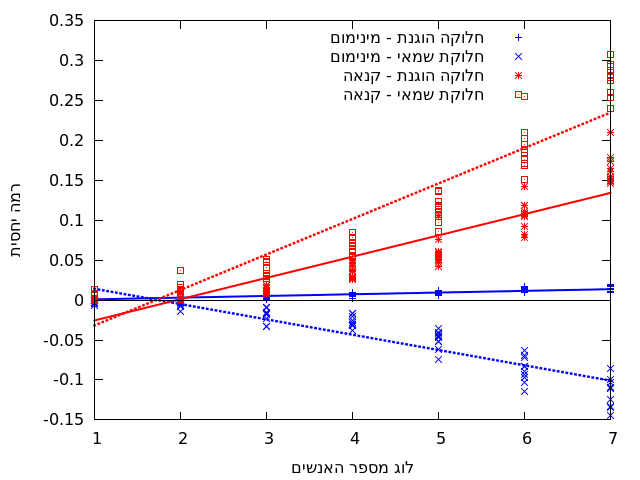
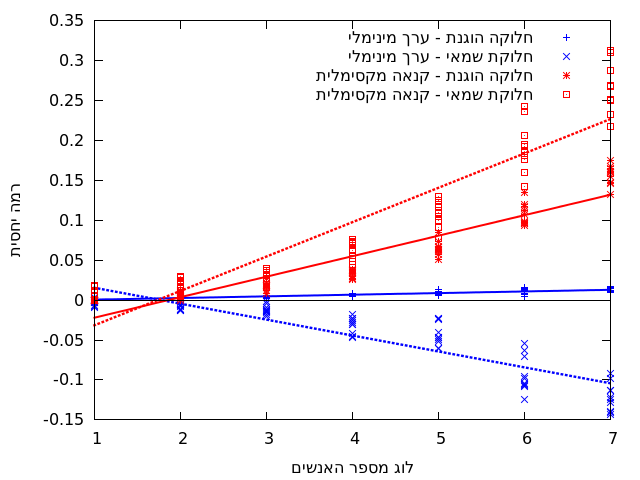
hebrew plots

diff --git a/main.js b/main.js
@@ -18,7 +18,7 @@ var _ = require("underscore")
 
 //var NOISE_PROPORTIONS = [0,0.25,0.5,1];
 //var NOISE_PROPORTIONS = _.range(0.05, 1, 0.05);
-var NOISE_PROPORTIONS = [0.2,0.5,1];
+var NOISE_PROPORTIONS = [0.2];
 
 var AGENT_NUMS = [2,4,8,16,32,64,128];
 //var AGENT_NUMS = [2,4,16,256,1024];
@@ -89,7 +89,7 @@ function calculateSingleDatapoint(numOfAgents,noiseProportion,resultsFile) {
 		if (egalitarianGain<-0.001) throw new Error("In proportional division, normalized egalitarian gain must be at least 0; got "+egalitarianGain);
 		var utilitarianGain = cakepartitions.utilitarianValue(partition)-1;
 		if (utilitarianGain<-0.001) throw new Error("In proportional division, utilitarian gain must be at least 0; got "+utilitarianGain);
-		var largestEnvy = cakepartitions.largestEnvy(partition);
+		var envy = cakepartitions.largestEnvy(partition);
 
 		
 		var identicalPartitionWithDifferentAgents = _.zip(valueFunctions,identicalPartition).map(function(pair) {
@@ -97,11 +97,11 @@ function calculateSingleDatapoint(numOfAgents,noiseProportion,resultsFile) {
 		});
 		var egalitarianGainIPWDA = cakepartitions.normalizedEgalitarianValue(identicalPartitionWithDifferentAgents)-1;
 		var utilitarianGainIPWDA = cakepartitions.utilitarianValue(identicalPartitionWithDifferentAgents)-1;
-		var largestEnvyIPWDA = cakepartitions.largestEnvy(identicalPartitionWithDifferentAgents);
+		var envyIPWDA = cakepartitions.largestEnvy(identicalPartitionWithDifferentAgents);
 
 		var data = numOfAgents+"\t"+Math.log2(numOfAgents)+"\t"+noiseProportion+"\t"+
-			egalitarianGain+"\t"+utilitarianGain+"\t"+largestEnvy+"\t"+
-			egalitarianGainIPWDA+"\t"+utilitarianGainIPWDA+"\t"+largestEnvyIPWDA;
+			egalitarianGain+"\t"+utilitarianGain+"\t"+envy+"\t"+
+			egalitarianGainIPWDA+"\t"+utilitarianGainIPWDA+"\t"+envyIPWDA;
 		resultsFile.write(data+"\n");
 	}
 }

diff --git a/lib/cakepartitions.js b/lib/cakepartitions.js
@@ -67,5 +67,16 @@ module.exports = {
 			var envyOfMe = module.exports.largestEnvyOfAgent(enviousValueFunction, valueFunctions)
 			return Math.max(memo, envyOfMe);
 		},0);
+	},
+	
+	/**
+	 * @return the average, over all agents, of the largest relative envy the agent feels towards another agent
+	 */
+	meanEnvy: function(valueFunctions) {
+		if (!valueFunctions.length) return 0; // default mean value for empty array
+		return _.reduce(valueFunctions, function(memo, enviousValueFunction) {
+			var envyOfMe = module.exports.largestEnvyOfAgent(enviousValueFunction, valueFunctions);
+			return memo + envyOfMe;
+		},0) / valueFunctions.length;
 	}
 }
